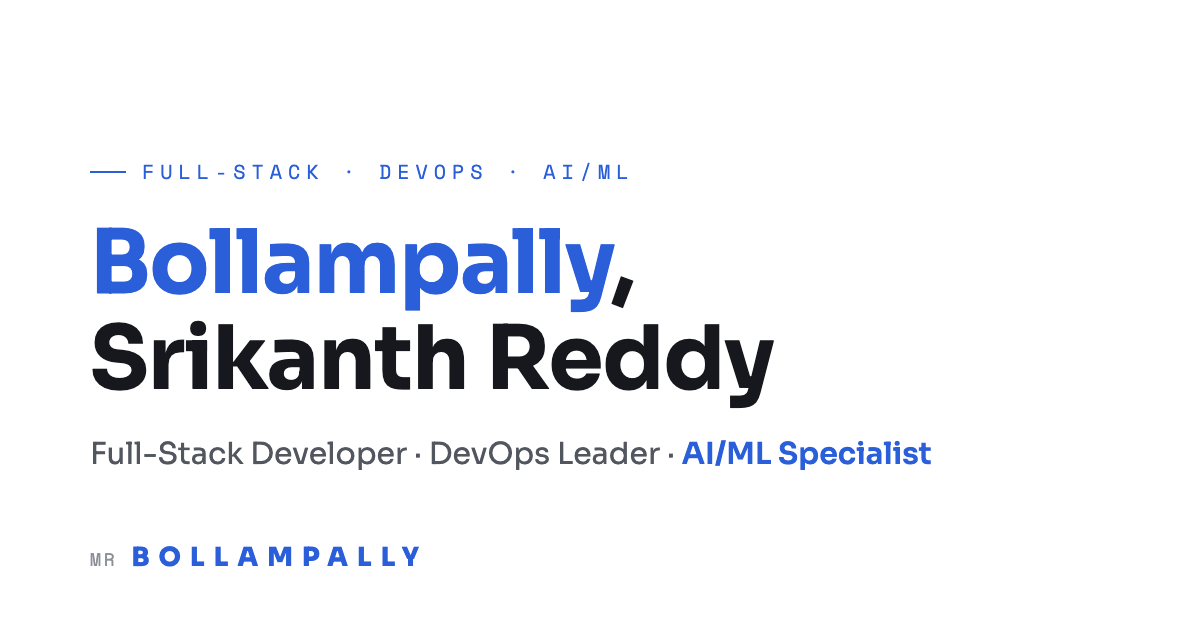
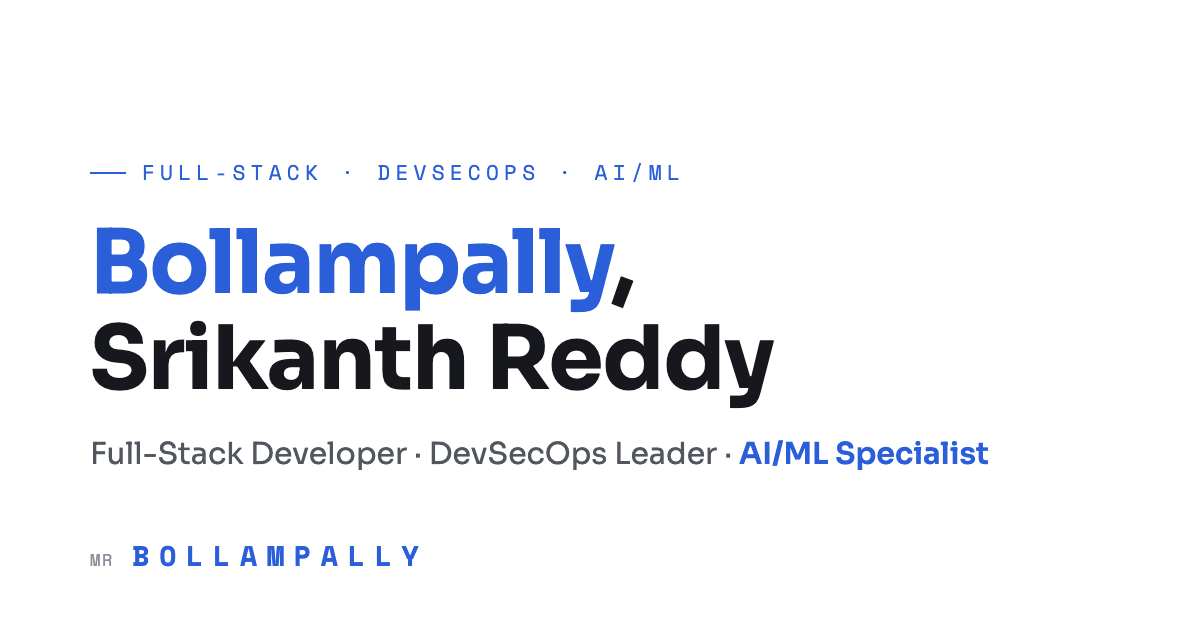
Update role to DevSecOps and tighten landing page spacing
- Role label is now DevSecOps across the hero, page title, Open Graph and
  Twitter tags, meta descriptions, structured data, llms.txt, the home page
  description and the Yellow Paper author bio. DevOps stays in the skills
  lists.
- Rebuild og-image.png so the link preview shows the new role; the old one had
  DevOps baked into the image.
- Reduce the gaps between landing page sections: section padding 96px to 64px,
  heading gap 52px to 36px, hero bottom padding 90px to 64px, and call to
  action padding 110/90px to 80/64px (page about 9% shorter).

diff --git a/index.html b/index.html
@@ -8,17 +8,17 @@
     <link rel="canonical" href="https://mesrikanthreddy.github.io/" />
     <meta
       name="description"
-      content="Bollampally, Srikanth Reddy — Full-Stack Developer, DevOps Leader, and AI/ML Specialist with 12+ years building cloud infrastructure and production ML systems for enterprises like Duke Energy, USPTO, and Cisco."
+      content="Bollampally, Srikanth Reddy — Full-Stack Developer, DevSecOps Leader, and AI/ML Specialist with 12+ years building cloud infrastructure and production ML systems for enterprises like Duke Energy, USPTO, and Cisco."
     />
     <meta name="theme-color" content="#ffffff" />
 
     <!-- Open Graph -->
     <meta property="og:type" content="profile" />
     <meta property="og:site_name" content="Bollampally, Srikanth Reddy" />
-    <meta property="og:title" content="Bollampally, Srikanth Reddy — Full-Stack · DevOps · AI/ML" />
+    <meta property="og:title" content="Bollampally, Srikanth Reddy — Full-Stack · DevSecOps · AI/ML" />
     <meta
       property="og:description"
-      content="Full-Stack Developer, DevOps Leader, and AI/ML Specialist with 12+ years building cloud infrastructure and production ML systems for enterprises like Duke Energy, USPTO, and Cisco."
+      content="Full-Stack Developer, DevSecOps Leader, and AI/ML Specialist with 12+ years building cloud infrastructure and production ML systems for enterprises like Duke Energy, USPTO, and Cisco."
     />
     <meta property="og:url" content="https://mesrikanthreddy.github.io/" />
     <meta property="og:image" content="https://mesrikanthreddy.github.io/og-image.png" />
@@ -28,17 +28,17 @@
 
     <!-- Twitter Card -->
     <meta name="twitter:card" content="summary_large_image" />
-    <meta name="twitter:title" content="Bollampally, Srikanth Reddy — Full-Stack · DevOps · AI/ML" />
+    <meta name="twitter:title" content="Bollampally, Srikanth Reddy — Full-Stack · DevSecOps · AI/ML" />
     <meta
       name="twitter:description"
-      content="Full-Stack Developer, DevOps Leader, and AI/ML Specialist with 12+ years building cloud infrastructure and production ML systems."
+      content="Full-Stack Developer, DevSecOps Leader, and AI/ML Specialist with 12+ years building cloud infrastructure and production ML systems."
     />
     <meta name="twitter:image" content="https://mesrikanthreddy.github.io/og-image.png" />
 
     <link rel="preconnect" href="https://fonts.googleapis.com" />
     <link rel="preconnect" href="https://fonts.gstatic.com" crossorigin />
     <link href="https://fonts.googleapis.com/css2?family=Sora:wght@300;400;500;600;700;800&family=Space+Mono:wght@400;700&display=swap" rel="stylesheet" />
-    <title>Bollampally, Srikanth Reddy — Full-Stack · DevOps · AI/ML</title>
+    <title>Bollampally, Srikanth Reddy — Full-Stack · DevSecOps · AI/ML</title>
 
     <!-- Structured data for search engines and AI/generative answer engines -->
     <script type="application/ld+json">
@@ -50,7 +50,7 @@
         "url": "https://mesrikanthreddy.github.io/",
         "image": "https://mesrikanthreddy.github.io/og-image.png",
         "jobTitle": "Principal Technical Consultant",
-        "description": "Full-Stack Developer, DevOps Leader, and AI/ML Specialist with 12+ years building cloud infrastructure and production ML systems for enterprises like Duke Energy, USPTO, and Cisco.",
+        "description": "Full-Stack Developer, DevSecOps Leader, and AI/ML Specialist with 12+ years building cloud infrastructure and production ML systems for enterprises like Duke Energy, USPTO, and Cisco.",
         "worksFor": {
           "@type": "Organization",
           "name": "YTT Global",
@@ -72,6 +72,7 @@
           "GCP",
           "Kubernetes",
           "DevOps",
+          "DevSecOps",
           "CI/CD",
           "Machine Learning",
           "MLOps",

diff --git a/src/index.css b/src/index.css
@@ -391,7 +391,7 @@ html.nav-open {
   border-bottom: 1px solid var(--border);
 }
 .hero-content {
-  padding: 150px max(var(--gutter), env(safe-area-inset-right, 0px)) 90px max(var(--gutter), env(safe-area-inset-left, 0px));
+  padding: 150px max(var(--gutter), env(safe-area-inset-right, 0px)) 64px max(var(--gutter), env(safe-area-inset-left, 0px));
   max-width: var(--wrap-max);
   margin: 0 auto;
   width: 100%;
@@ -523,14 +523,14 @@ h1 .surname {
 
 /* ---------- SECTION SCAFFOLDING ---------- */
 section {
-  padding: 96px 0;
+  padding: 64px 0;
   border-bottom: 1px solid var(--border);
 }
 .section-head {
   display: flex;
   align-items: baseline;
   gap: 22px;
-  margin-bottom: 52px;
+  margin-bottom: 36px;
 }
 .section-num {
   font-family: 'Space Mono', monospace;
@@ -765,7 +765,7 @@ h2 {
 /* ---------- CTA ---------- */
 .cta {
   border-bottom: none;
-  padding: 110px 0 90px;
+  padding: 80px 0 64px;
 }
 .cta-inner {
   text-align: center;

diff --git a/src/hooks/useDocumentMeta.js b/src/hooks/useDocumentMeta.js
@@ -2,7 +2,7 @@ import { useEffect } from 'react'
 
 const SITE_NAME = 'Bollampally, Srikanth Reddy'
 const DEFAULT_DESCRIPTION =
-  'Full-Stack Developer, DevOps Leader, and AI/ML Specialist with 12+ years building cloud infrastructure and production ML systems.'
+  'Full-Stack Developer, DevSecOps Leader, and AI/ML Specialist with 12+ years building cloud infrastructure and production ML systems.'
 
 export function useDocumentMeta({
   title,
@@ -10,7 +10,7 @@ export function useDocumentMeta({
   noindex = false,
 } = {}) {
   useEffect(() => {
-    const fullTitle = title ? `${title} — ${SITE_NAME}` : `${SITE_NAME} — Full-Stack · DevOps · AI/ML`
+    const fullTitle = title ? `${title} — ${SITE_NAME}` : `${SITE_NAME} — Full-Stack · DevSecOps · AI/ML`
     document.title = fullTitle
 
     const setMeta = (selector, attr, value) => {

diff --git a/src/components/Hero.jsx b/src/components/Hero.jsx
@@ -7,12 +7,12 @@ export default function Hero() {
   return (
     <section className="hero" id="top">
       <div className="hero-content">
-        <div className="eyebrow">Full-Stack · DevOps · AI/ML</div>
+        <div className="eyebrow">Full-Stack · DevSecOps · AI/ML</div>
         <h1>
           <span className="surname">Bollampally</span>, Srikanth Reddy
         </h1>
         <p className="role">
-          Full-Stack Developer · Full-Stack DevOps Leader ·{' '}
+          Full-Stack Developer · Full-Stack DevSecOps Leader ·{' '}
           <strong>AI/ML Specialist</strong> ·{' '}
           <strong>Forward Deployed Engineer</strong> ·{' '}
           <strong>Agentic AI Developer</strong>

diff --git a/src/pages/Home.jsx b/src/pages/Home.jsx
@@ -10,7 +10,7 @@ import { useDocumentMeta } from '../hooks/useDocumentMeta'
 export default function Home() {
   useDocumentMeta({
     description:
-      'Full-Stack Developer, DevOps Leader, and AI/ML Specialist with 12+ years building cloud infrastructure and production ML systems for enterprises like Duke Energy, USPTO, and Cisco.',
+      'Full-Stack Developer, DevSecOps Leader, and AI/ML Specialist with 12+ years building cloud infrastructure and production ML systems for enterprises like Duke Energy, USPTO, and Cisco.',
   })
 
   return (
